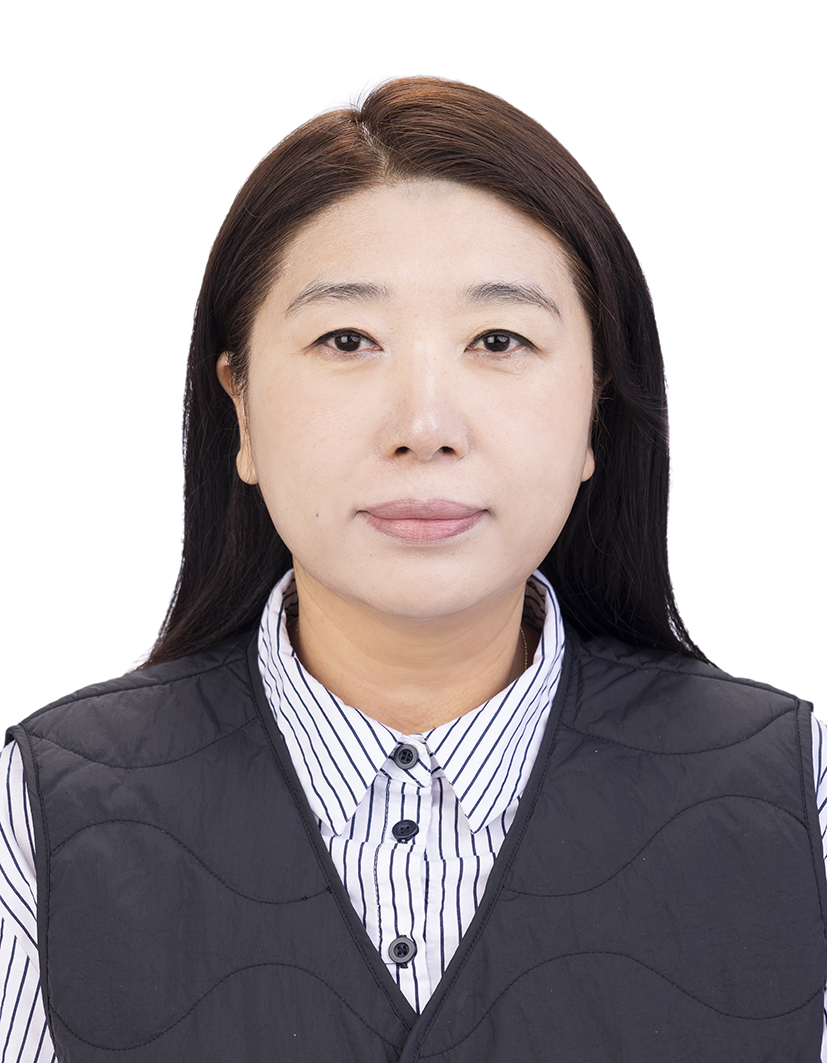
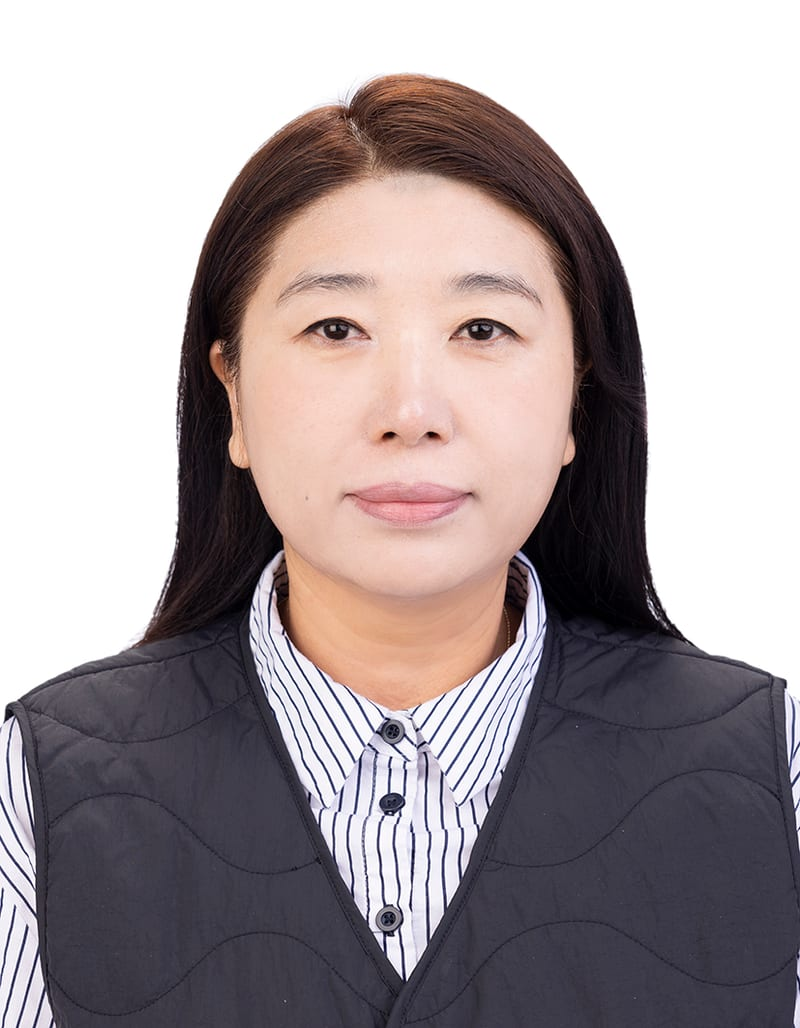
Optimize images and split route bundles
- Convert the three research-area illustrations (7-8 MB PNGs each) to
  1600px WebP (56-98 KB each) and recompress the two largest member
  photos to 800px JPEG; public/assets drops from ~27 MB to ~0.8 MB.
- Delete the unreferenced logo_image_final.png (652 KB).
- Lazy-load all routes except Home via React.lazy/Suspense, so the
  354 KB publications.json ships in a separate chunk fetched only on
  the People/Scholar pages; initial JS falls from 633 KB to 270 KB.
- Drop the chunkSizeWarningLimit override that was masking the issue.

Changed region(s): [[0.5938, 0.6848, 0.625, 0.7471], [0.625, 0.6537, 0.6562, 0.6848], [0.3438, 0.6537, 0.375, 0.6848]]

diff --git a/src/App.tsx b/src/App.tsx
@@ -1,15 +1,23 @@
-import React from 'react';
+import React, { Suspense, lazy } from 'react';
 import { BrowserRouter as Router, Routes, Route } from 'react-router-dom';
 import Navbar from './components/Navbar';
 import Footer from './components/Footer';
 import Home from './pages/Home';
-import Research from './pages/Research';
-import People from './pages/People';
-import Publications from './pages/Publications';       // 주요 논문 페이지
-import News from './pages/News';
-import ScholarPublications from './pages/ScholarPublications'; // 전체 논문 페이지
+
+// 라우트 코드 스플리팅: 무거운 publications.json을 쓰는 People/Scholar가 초기 번들에서 분리됨
+const Research = lazy(() => import('./pages/Research'));
+const People = lazy(() => import('./pages/People'));
+const Publications = lazy(() => import('./pages/Publications'));       // 주요 논문 페이지
+const News = lazy(() => import('./pages/News'));
+const ScholarPublications = lazy(() => import('./pages/ScholarPublications')); // 전체 논문 페이지
 
 const routerBasename = import.meta.env.BASE_URL.replace(/\/$/, '') || '/';
+
+const PageLoader = () => (
+  <div className="flex items-center justify-center py-32">
+    <div className="w-8 h-8 border-4 border-blue-200 border-t-blue-600 rounded-full animate-spin" aria-label="Loading page" />
+  </div>
+);
 
 function App() {
   return (
@@ -17,14 +25,16 @@ function App() {
       <div className="min-h-screen bg-white flex flex-col font-sans text-gray-900">
         <Navbar />
         <main className="flex-grow pt-16">
-          <Routes>
-            <Route path="/" element={<Home />} />
-            <Route path="/research" element={<Research />} />
-            <Route path="/people" element={<People />} />
-            <Route path="/publications" element={<Publications />} /> {/* 하이라이트 */}
-            <Route path="/news" element={<News />} />
-            <Route path="/scholar" element={<ScholarPublications />} /> {/* 전체 목록 */}
-          </Routes>
+          <Suspense fallback={<PageLoader />}>
+            <Routes>
+              <Route path="/" element={<Home />} />
+              <Route path="/research" element={<Research />} />
+              <Route path="/people" element={<People />} />
+              <Route path="/publications" element={<Publications />} /> {/* 하이라이트 */}
+              <Route path="/news" element={<News />} />
+              <Route path="/scholar" element={<ScholarPublications />} /> {/* 전체 목록 */}
+            </Routes>
+          </Suspense>
         </main>
         <Footer />
       </div>

diff --git a/src/constants.tsx b/src/constants.tsx
@@ -38,21 +38,21 @@ export const RESEARCH_AREAS: ResearchArea[] =[
     id: "privacy-preserving-ai",
     title: "Privacy-Preserving AI",
     description: "Designing learning pipelines that reduce sensitive-data exposure while preserving model utility. We study privacy-aware training, evaluation, and deployment practices for modern AI systems.",
-    image: "/assets/trustworthy-ai.png",
+    image: "/assets/trustworthy-ai.webp",
     tags:['Data Privacy', 'LLM Privacy', 'Responsible AI']
   },
   {
     id: "machine-unlearning",
     title: "Machine Unlearning",
     description: "Developing algorithms that allow AI models to forget specific data points without full retraining. We focus on removing privacy-sensitive data from LLMs and copyrighted content from generative models while maintaining performance.",
-    image: "/assets/machine-unlearning.png",
+    image: "/assets/machine-unlearning.webp",
     tags:['Generative Models', 'Selective Forgetting', 'Copyright Removal']
   },
   {
     id: "robust-ai-engineering",
     title: "Robust AI Engineering",
     description: "Engineering reliable AI systems against distribution shift, adversarial behavior, and data poisoning. Our work connects model robustness with practical deployment requirements for trustworthy applications.",
-    image: "/assets/secure-cv.png",
+    image: "/assets/secure-cv.webp",
     tags:['Model Robustness', 'AI Safety', 'Adversarial Defense']
   }
 ];

diff --git a/vite.config.ts b/vite.config.ts
@@ -14,6 +14,5 @@ export default defineConfig(({ command }) => ({
   build: {
     outDir: 'dist',
     assetsDir: 'assets',
-    chunkSizeWarningLimit: 1000,
   }
 }));